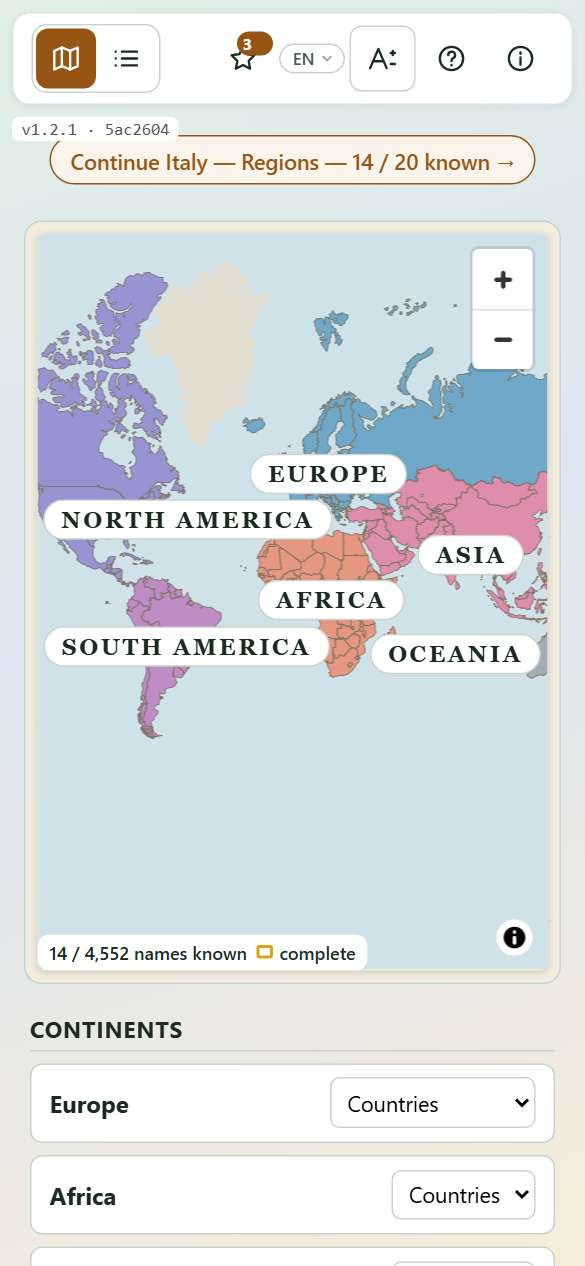
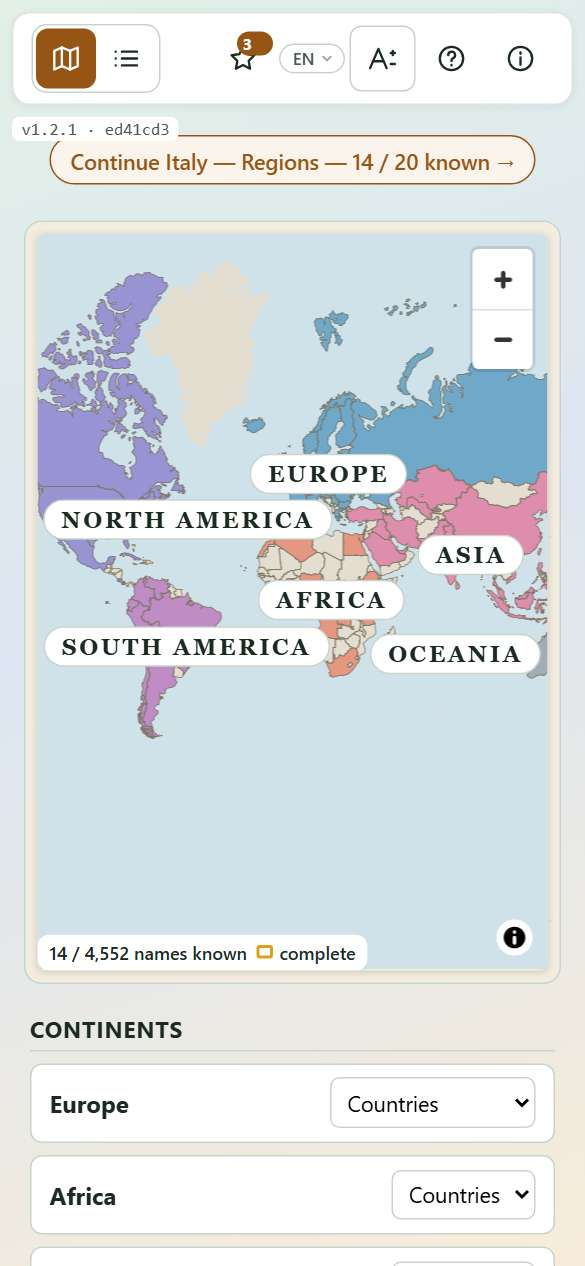
fix: respect map availability and keep Known town labels plain
Restore neutral land for countries without maps without coupling fills to progress. Apply plain Known typography to town pills and retain quiz guidance. Amend the superseded policy and localized manuals.

Fixes #309

Fixes #310

diff --git a/app/src/lib/regionLabel.browser.test.ts b/app/src/lib/regionLabel.browser.test.ts
@@ -4,17 +4,18 @@
 // and a town's name keeps its box.
 import { afterEach, describe, expect, it } from 'vitest';
 import '../app.css';
+import '../appearance.css';
 import { MAGNIFIED_CLASS } from './labelMagnify';
 
 const NONE = 'rgba(0, 0, 0, 0)';
 const ASKED_INK = 'rgb(150, 85, 20)';
 
 /** One MapLibre popup with the given classes, as MapView and QuizView add them. */
-function label(classes: string, name = 'San Juan') {
+function label(classes: string, name = 'San Juan', host = document.body) {
 	const popup = document.createElement('div');
 	popup.className = `maplibregl-popup ${classes}`;
 	popup.innerHTML = `<div class="maplibregl-popup-content">${name}</div>`;
-	document.body.append(popup);
+	host.append(popup);
 	return getComputedStyle(popup.firstElementChild!);
 }
 
@@ -110,6 +111,50 @@ describe('region labels in the Quiz, Overview and Tour (FT-74)', () => {
 			const style = label(classes, 'Essen');
 			expect(style.backgroundColor).not.toBe(NONE);
 			expect(style.fontFamily).not.toContain('Georgia');
+		}
+	});
+});
+
+describe('plain Known names in every color scheme', () => {
+	afterEach(() => document.body.replaceChildren());
+	it('keeps asked towns and region names plain while preserving quiz guidance', () => {
+		const root = document.documentElement;
+		const previous = root.dataset.scheme;
+		try {
+			for (const scheme of ['classic', 'ocean', 'forest', 'contrast']) {
+				root.dataset.scheme = scheme;
+				const known = document.createElement('div');
+				known.className = 'map-view';
+				document.body.append(known);
+				const town = label(
+					'geoclick-solved-popup geoclick-retention retention-asked',
+					'Essen',
+					known
+				);
+				const region = label(
+					'geoclick-solved-popup geoclick-retention geoclick-region-name retention-asked',
+					'Toscana',
+					known
+				);
+				expect(town.textDecorationLine).toBe('none');
+				expect(town.backgroundColor).not.toBe(NONE);
+				expect(region.textDecorationLine).toBe('none');
+				const svg = document.createElementNS('http://www.w3.org/2000/svg', 'svg');
+				svg.classList.add('geoclick-stretched');
+				const text = document.createElementNS('http://www.w3.org/2000/svg', 'text');
+				text.classList.add('retention-asked');
+				text.textContent = 'Toscana';
+				svg.append(text);
+				known.append(svg);
+				expect(getComputedStyle(text).textDecorationLine).toBe('none');
+				const quiz = label('geoclick-solved-popup revealed', 'Essen');
+				expect(quiz.textDecorationLine).toBe('underline');
+				expect(quiz.textDecorationStyle).toBe('dotted');
+				document.body.replaceChildren();
+			}
+		} finally {
+			if (previous === undefined) delete root.dataset.scheme;
+			else root.dataset.scheme = previous;
 		}
 	});
 });

diff --git a/app/src/lib/WorldPicker.svelte b/app/src/lib/WorldPicker.svelte
@@ -75,7 +75,7 @@
 
 	const view = $derived(picker ? validView(picker, pickerView()) : 'world');
 
-	// Country fills always keep their continent color; progress is separate (#296).
+	// Countries with maps keep continent color; unavailable countries stay neutral.
 	const CONTINENT_COLOURS: Record<string, string> = {
 		europe: '#5b9fc8',
 		africa: '#e58a73',
@@ -92,10 +92,17 @@
 		UNKNOWN_CONTINENT
 	] as unknown as maplibregl.ExpressionSpecification;
 
+	const COUNTRY_COLOUR = [
+		'case',
+		['boolean', ['feature-state', 'hasMaps'], false],
+		CONTINENT_COLOUR,
+		'#e4ded0'
+	] as unknown as maplibregl.ExpressionSpecification;
+
 	const continentName = (id: string) => t(`continent.${id}` as TranslationKey);
 
 	// Counts and gold outlines show learning progress; no learning state is
-	// allowed to replace a country's continent fill (owner, #296).
+	// allowed to replace an available country's continent fill (owner, #296).
 	const progress = $derived(
 		worldProgress(
 			groups.map((g) => ({ id: pickerIdOf(g), mapIds: g.maps.map((m) => m.id) })),
@@ -109,10 +116,12 @@
 		if (!loaded || !map || !picker) return;
 		for (const country of picker.countries) {
 			const p = byGroup.get(country.id);
+			const available = hasMaps(country.id);
 			map.setFeatureState(
 				{ source: 'picker', sourceLayer: 'countries', id: country.id },
 				{
-					complete: !!p && p.known === p.total
+					hasMaps: available,
+					complete: available && !!p && p.known === p.total
 				}
 			);
 		}
@@ -371,7 +380,7 @@
 								source: 'picker',
 								'source-layer': 'countries',
 								paint: {
-									'fill-color': CONTINENT_COLOUR,
+									'fill-color': COUNTRY_COLOUR,
 									'fill-opacity': 0.85
 								}
 							},

diff --git a/app/src/lib/WorldPicker.svelte.test.ts b/app/src/lib/WorldPicker.svelte.test.ts
@@ -210,12 +210,17 @@ describe('WorldPicker (FT-83, FT-86, #87)', () => {
 		const initial = fake.state.mapOptions!.style!.layers.find(
 			(layer) => layer.id === 'countries-fill'
 		)!.paint!['fill-color'];
-		// This is the user contract: feature-state must never drive a fill.
-		// It also includes unavailable countries: continent alone chooses color.
-		expect(JSON.stringify(initial)).not.toContain('feature-state');
-		expect(initial).toEqual(
-			expect.arrayContaining(['north-america', '#8b86d4', 'europe', '#5b9fc8'])
-		);
+		// Availability may choose neutral land; learning progress never chooses color.
+		expect(initial).toEqual([
+			'case',
+			['boolean', ['feature-state', 'hasMaps'], false],
+			expect.arrayContaining(['north-america', '#8b86d4', 'europe', '#5b9fc8']),
+			'#e4ded0'
+		]);
+		await expect.poll(() => fake.state.featureStates['united-states']?.hasMaps).toBe(true);
+		expect(fake.state.featureStates.italy?.hasMaps).toBe(true);
+		expect(fake.state.featureStates.belarus?.hasMaps).toBe(false);
+		expect(fake.state.featureStates.belarus?.complete).toBe(false);
 		const cases = [
 			{ known: 0, complete: false },
 			{ known: 24, complete: false },
@@ -231,6 +236,8 @@ describe('WorldPicker (FT-83, FT-86, #87)', () => {
 			await expect
 				.poll(() => fake.state.featureStates['united-states']?.complete)
 				.toBe(step.complete);
+			expect(fake.state.featureStates['united-states']?.hasMaps).toBe(true);
+			expect(fake.state.featureStates.belarus?.hasMaps).toBe(false);
 			const current = fake.state.paintProperties['countries-fill:fill-color'] ?? initial;
 			expect(current).toEqual(initial);
 			const expected = t('picker.namesKnown', {

diff --git a/app/src/appearance.css b/app/src/appearance.css
@@ -185,7 +185,7 @@ html[data-text-size='large'] .picker-continent {
 	text-align: center;
 }
 
-/* Asked names are underlined except for the plain Known region labels below. */
+/* Asked names are underlined except for all plain Known labels below. */
 .geoclick-retention.retention-asked .maplibregl-popup-content,
 .geoclick-stretched text.retention-asked {
 	text-decoration: underline;
@@ -210,8 +210,8 @@ html[data-text-size='large'] .sections h3 {
 	overflow-wrap: anywhere;
 }
 
-/* Known region names stay plain in both label renderers. */
-html .map-view .geoclick-region-name .maplibregl-popup-content,
+/* All Known names stay plain, including town pills and curved region labels. */
+html .map-view .geoclick-retention .maplibregl-popup-content,
 html .map-view .geoclick-stretched text {
 	text-decoration: none;
 }

diff --git a/docs/USER_MANUAL.de.md b/docs/USER_MANUAL.de.md
@@ -80,7 +80,7 @@ Du kannst zwischen Weltkarte und Liste wählen. Auf der Weltkarte öffnest du zu
 
 Drücke auf den gewünschten Kartentyp, um ihn zu öffnen. Die Prozentzahl oder Anzahl bei einer Karte zeigt, wie viele ihrer Orte du kennst. Sie ist keine Bewertung der letzten Runde. Die Darstellung und deine Einstellungen werden gespeichert. Das Angebot für das Tutorial erscheint einmal; der Tutorial-Knopf bleibt auch danach erreichbar.
 
-Auf der Weltkarte behält jedes Land die Farbe seines Kontinents, unabhängig vom Lernstand. Üben lässt die Farbe nicht verblassen. Ein vollständig gewusstes Land bekommt einen **goldenen Rand**; Regionen- und Städtekarten zählen, Detailkarten nicht. Zähler bei den Karten und die Gesamtzahl der gewussten Namen zeigen den Fortschritt getrennt von den Flächenfarben.
+Auf der Weltkarte behalten Länder mit eigenen spielbaren Karten die Farbe ihres Kontinents, unabhängig vom Lernstand. Länder ohne eigene Karten bleiben neutral und ungefärbt. Üben lässt die Farbe nicht verblassen. Ein vollständig gewusstes Land bekommt einen **goldenen Rand**; Regionen- und Städtekarten zählen, Detailkarten nicht. Zähler bei den Karten und die Gesamtzahl der gewussten Namen zeigen den Fortschritt getrennt von den Flächenfarben.
 
 Eine Zeile über Karte oder Liste schlägt vor, was du als Nächstes spielen kannst, zum Beispiel „Weiter mit Italy — Regionen — 14 / 20 gewusst“, „Italy — Regionen nochmal spielen — letztes Mal 3 eine Stufe verloren“ oder „Als Nächstes: Italy — Städte — Italy — Regionen kannst du ganz“. Ein Druck darauf öffnet das Quiz dieser Karte. Gibt es nichts vorzuschlagen, oder läuft das Tutorial, fehlt die Zeile.
 
@@ -111,7 +111,7 @@ Hier entsteht deine persönliche Karte. Die Stärke eines Namens folgt seiner St
 
 Klicke oder tippe auf einen Ort, um seinen Namen hinzuzufügen; noch einmal nimmt ihn wieder weg. Du kannst mehrere Namen gleichzeitig wählen. **Gewählt** unterscheidet solche Namen von denen, die du im Quiz verdient hast. **Zurücksetzen** entfernt die vorübergehenden Auswahlen und zeigt wieder den erworbenen Lernstand. Es löscht keine erreichten Stufen. Die Auswahlen gelten für die laufende Sitzung.
 
-Wenn Informationen verfügbar sind, öffnet die Auswahl auch eine Ortskarte mit Wissenswertem. Auf einer Städtekarte tippst du auf den Punkt. Das erneute Ausblenden des Namens schließt die Ortskarte. In dieser Ansicht gibt es keine Bewertung.
+Wenn Informationen verfügbar sind, öffnet die Auswahl auch eine Ortskarte mit Wissenswertem. Auf einer Städtekarte tippst du auf den Punkt. Das erneute Ausblenden des Namens schließt die Ortskarte. In dieser Ansicht gibt es keine Bewertung. Alle Namen auf Gewusst, auch Städtenamen, erscheinen ohne Unterstreichung.
 
 Auf einer nie gespielten Karte erscheint eine kleine Karte **Noch nichts gewusst** mit den Knöpfen **Übersicht** und **Quiz**. Mit **×** schließt du den Hinweis für diesen Besuch, damit die Karte frei bleibt.
 

diff --git a/docs/USER_MANUAL.it.md b/docs/USER_MANUAL.it.md
@@ -80,7 +80,7 @@ Puoi scegliere una vista geografica oppure un elenco. Nella vista geografica sce
 
 Premi il tipo di mappa che vuoi aprire. La percentuale o il conteggio accanto a una mappa indica quanti luoghi conosci; non rappresenta un voto dell’ultima partita. La scelta fra mappa ed elenco e le preferenze vengono ricordate. L’offerta del tutorial appare una volta, ma il comando Tutorial rimane disponibile.
 
-Sulla mappa del mondo ogni paese mantiene il colore del proprio continente, qualunque sia il progresso. Esercitarsi non fa sbiadire il colore. Un paese conosciuto del tutto riceve un **bordo dorato**; contano regioni e città, non le mappe dettagliate. I contatori accanto alle mappe e il totale dei nomi conosciuti mostrano il progresso separatamente dai colori delle aree.
+Sulla mappa del mondo i paesi con mappe proprie mantengono il colore del continente, qualunque sia il progresso. I paesi senza mappe proprie restano neutri, senza colore. Esercitarsi non fa sbiadire il colore. Un paese conosciuto del tutto riceve un **bordo dorato**; contano regioni e città, non le mappe dettagliate. I contatori accanto alle mappe e il totale dei nomi conosciuti mostrano il progresso separatamente dai colori delle aree.
 
 Una riga sopra la mappa o l’elenco suggerisce che cosa giocare: per esempio «Continua Italy — Regioni — sai 14 / 20», «Rigioca Italy — Regioni — l’ultima volta 3 sono scesi di un gradino» oppure «Prossima: Italy — Città — conosci tutta Italy — Regioni». Premendola si apre il quiz di quella mappa. La riga manca quando non c’è nulla da suggerire e durante il tutorial.
 
@@ -111,7 +111,7 @@ Qui costruisci la tua mappa. I nomi compaiono con evidenza diversa secondo il lo
 
 Tocca o clicca un luogo per aggiungere il suo nome; ripeti per nasconderlo. Puoi scegliere più nomi insieme. Lo stile **Scelto** distingue queste scelte dai risultati del quiz. **Azzera** elimina le scelte temporanee e ripristina la visualizzazione dei nomi guadagnati: non cancella i gradini guadagnati. Le scelte durano per la sessione.
 
-Scegliere un luogo apre anche la sua scheda, quando ci sono informazioni disponibili. Nelle mappe delle città tocchi il punto. Nascondere di nuovo il nome chiude la scheda. Questa schermata non assegna punteggi.
+Scegliere un luogo apre anche la sua scheda, quando ci sono informazioni disponibili. Nelle mappe delle città tocchi il punto. Nascondere di nuovo il nome chiude la scheda. Questa schermata non assegna punteggi. In Conoscenza anche i nomi delle città sono senza sottolineatura.
 
 Su una mappa mai giocata compare un piccolo riquadro **Ancora niente di imparato**, con i pulsanti **Panoramica** e **Quiz**. Chiudi l’avviso con **×** per liberare la mappa: resta chiuso per questa visita.
 

diff --git a/DECISIONS.md b/DECISIONS.md
@@ -2697,10 +2697,12 @@ question was answered "as recommended" in the issues.
   licence or credit, which the issue's CC0-files plan would have needed.
   Sounds are off by default; Android haptics are on and follow the system's
   reduce-motion setting.
-- **The start screen speaks completion (#262, #263; amended 2026-10-31, #296):**
+- **The start screen speaks completion (#262, #263; amended 2026-11-01, #296/#309):**
   the owner chose permanent continent fill colors, with learning progress
   shown separately through counts and gold completion outlines. Practice,
-  including zero-known records, never fades or replaces a country's color.
+  including zero-known records, never fades or replaces an available country's color.
+  The owner clarified on 2026-11-01 that countries without their own playable
+  maps stay neutral and uncolored; catalogue availability is separate from progress.
   Detailed maps are excluded from completion. The single suggestion line
   remains, rather than reopening the home-order decision.
 - **Out of scope, on purpose:** leaderboards, accounts, coins or XP, daily
@@ -2725,8 +2727,10 @@ collapsed by default. Place names / Name places stay visible outside it.
 The top buttons have reduced vertical padding and retain their original
 horizontal padding; the font range extends to 50–300%, and the quiz instruction line is removed entirely. Tutorials open Settings when their controls
 are needed.
-The owner also asked for plain region names on Known maps: neither popup
-names nor curved SVG names are underlined there, in any color scheme.
+All names on Known maps stay plain, in both popup and curved-SVG renderers.
+The owner clarified on 2026-11-01 that this includes town labels, in every
+color scheme (#310). Town pills and retention strengths remain; the quiz's
+revealed-answer dotted guidance is a separate rule.
 The milestone review exposed horizontal padding reductions on secondary
 controls. The owner clarified that original horizontal padding is preserved
 throughout, including type chips and preference pills; only vertical padding

diff --git a/docs/USER_MANUAL.md b/docs/USER_MANUAL.md
@@ -206,8 +206,9 @@ parts. The finer ones are listed below a line, after the standard ones (see
 
 Once you have played, the world map shows how far you have got:
 
-- Every country keeps its continent's colour, whether it is unplayed, partly
-  known or fully known. Practice never fades or replaces its fill colour.
+- Countries with their own playable maps keep their continent's colour, whether
+  unplayed, partly known or fully known. Practice never changes that colour.
+- Countries without maps of their own remain uncolored, with a neutral land fill.
 - A country you know completely gets a **gold outline**. Its regions and towns
   maps count; detailed maps don't.
 - Progress is shown by the counts beside maps/countries and the total legend,
@@ -402,7 +403,8 @@ something about it (if there is anything to show; taking a name off closes the c
 ![Tapping Sicilia puts its name on the map and opens its fact card](manual/known-fact.jpg)
 
 Because a mistake takes a name down a step, this map is an honest picture of
-what you actually know. Nothing here is scored. On a towns map, tap a town's dot.
+what you actually know. Nothing here is scored. On a towns map, tap a town's dot. All names on Known,
+including towns, are plain text without underlines.
 
 **A map you have never played** shows a small card, **"Nothing known yet"**,
 with an **Overview** button to study the names and a **Quiz** button to start

diff --git a/CHANGELOG.md b/CHANGELOG.md
@@ -12,7 +12,8 @@ one entry per tagged version on `main`.
 For players:
 
 - **Desktop page zoom:** Ctrl + / Ctrl − and Ctrl+wheel are enabled in the Windows app. They resize the whole interface, including buttons and icons. Appearance text size and the map's geographic zoom remain separate.
-- **Steady world colors:** countries retain their continent color before and after practice, including when no names are Known. Progress stays visible in counts and gold completion outlines; the green progress-fill legend is removed.
+- **Steady world colors:** countries with their own maps retain their continent color before and after practice, including when no names are Known. Countries without maps remain uncolored. Progress stays visible in counts and gold completion outlines; the green progress-fill legend is removed.
+- **Plain names on Known:** town names as well as region names have no underlines; the quiz keeps its separate answer guidance.
 - **Close the empty Known hint:** the “Nothing known yet” card now has an accessible × button, so you can dismiss it and uncover the map for the current visit.
 - **Updated English, German and Italian manuals and home-screen illustrations** explain the separate zoom settings and the world map's colors.
 

diff --git a/ROADMAP.md b/ROADMAP.md
@@ -1,6 +1,6 @@
 # Geoclick — Roadmap
 
-- **v1.2.1 owner-testing fix (#307):** make the empty Known-map notice dismissible with a localized, keyboard/touch-accessible × button. The agreed b7615b4 candidate remains untagged while this ordinary fix PR is tested, approved and reviewed on its resulting SHA.
+- **v1.2.1 owner-testing fixes (#307, #309, #310):** dismiss the empty Known notice with a localized × button; leave countries without maps uncolored; keep town names plain on Known as well as region names. The agreed b7615b4 candidate remains untagged while this ordinary fix PR is tested, approved and reviewed on its resulting SHA.
 
 - **v1.2.1 release preparation (2026-10-31):** desktop browser-style Ctrl zoom (#295) and permanent continent colors with progress in counts/gold outlines (#296) merged in [PR #297](https://github.com/diegoami/Geoclick2027/pull/297). Version/changelog preparation is underway; candidate merge, milestone review and release-installer checks remain pending. The published downloads are still v1.2.0. Visible main-window widget-zoom controls (#298) are filed but not implemented and remain outside this patch.
 

diff --git a/ARCHITECTURE.md b/ARCHITECTURE.md
@@ -426,8 +426,10 @@ finger's drag aims, tap or drag), `difficulty.ts` (the hand), `nameIt.ts`
 round changed, best times) and `feedback.ts` (sound and haptics).
 `ScorePanel.svelte` shows the end of a round. The start screen's suggestion
 comes from `suggestion.ts`, and `homeProgress.ts`'s `worldProgress` supplies
-world totals and gold completion outlines. `WorldPicker.svelte` keeps every
-country's continent fill independent of progress (#296).
+world totals and gold completion outlines. `WorldPicker.svelte` keeps countries with their own maps in continent colors
+independent of progress; unavailable countries use neutral land fill (#296, #309).
+`appearance.css` keeps all `MapView` retention labels plain, including town pills
+and curved region names; quiz-answer guidance retains its separate styling (#310).
 
 **The tutorial** (FT-11, script in `docs/TUTORIAL.md`) runs over these
 same screens rather than copies of them. A Tutorial button sits on the
